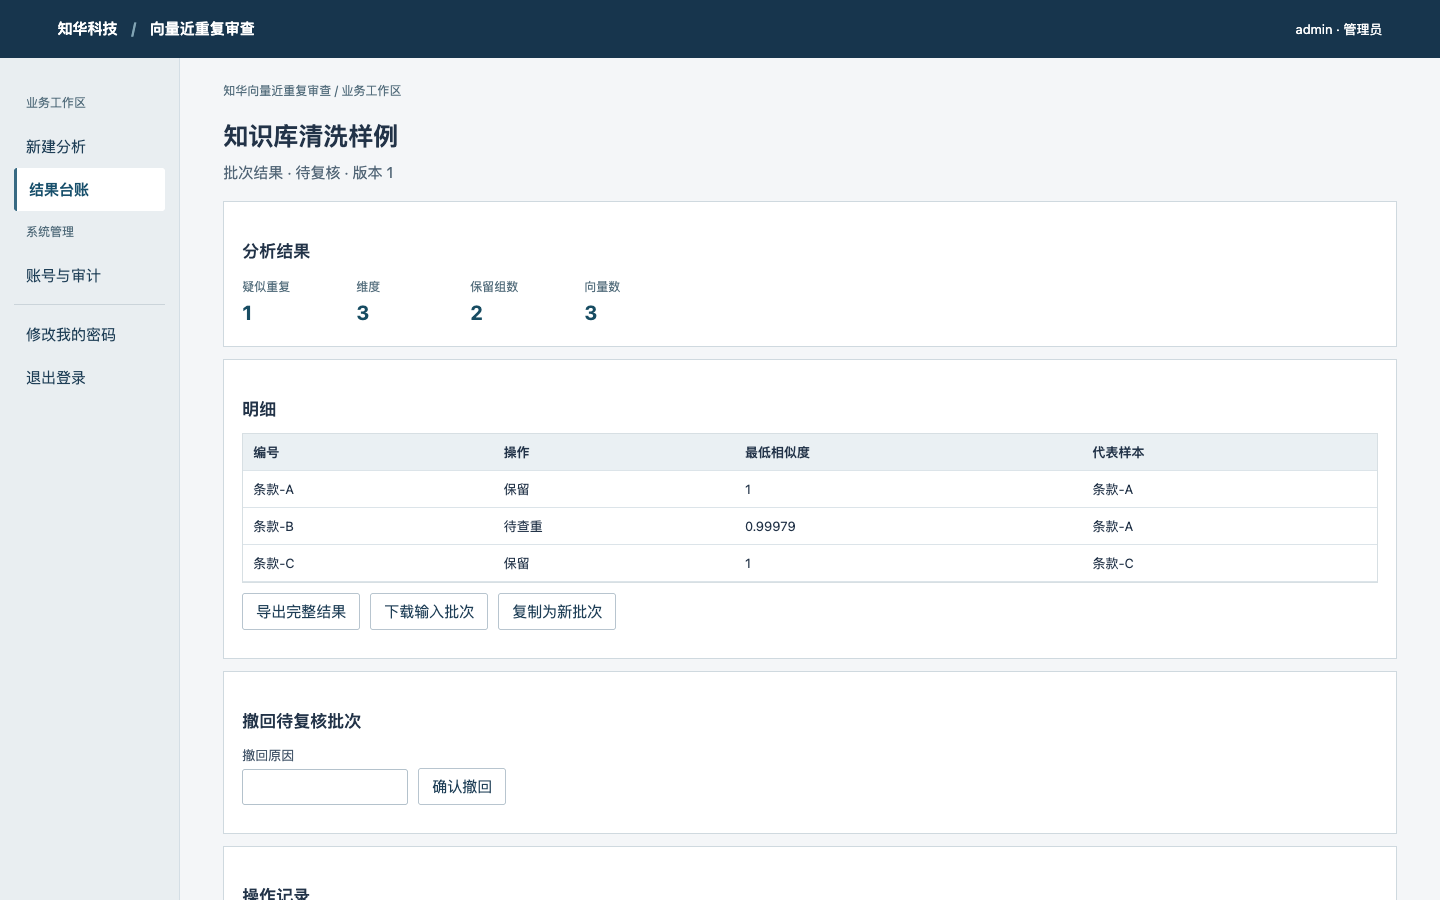
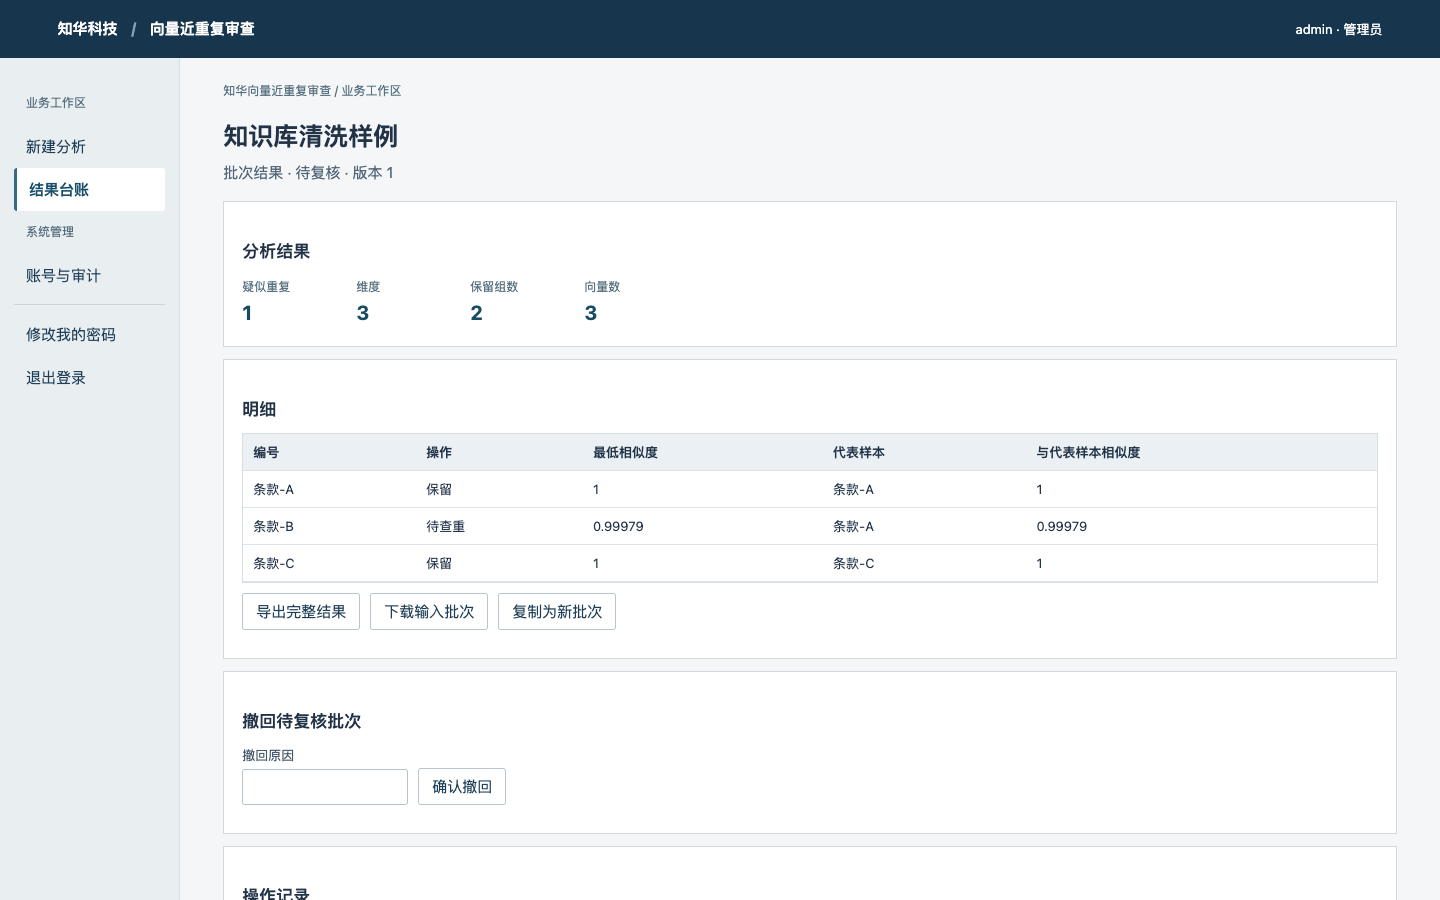
feat: add domain acceptance evidence and local startup diagnostics

diff --git a/frontend/app.js b/frontend/app.js
@@ -56,6 +56,7 @@ const labels = {
   context: "编排正文",
 };
 const resultLabels = {
+  representativeSimilarity: "与代表样本相似度",
   ...labels,
   ...{
     knownTokens: "词表命中数",

diff --git a/scripts/doctor.py b/scripts/doctor.py
@@ -1,0 +1,63 @@
+#!/usr/bin/env python3
+"""上海如静知华信息科技有限公司 · https://www.zhuatech.cn/
+商业授权或定制开发请微信添加微信号zhuatech或zhuatech2进行咨询。
+Optional preflight for a direct local launch; never initializes a database or changes persistent files.
+"""
+import os, re, shutil, socket, subprocess, sys
+from pathlib import Path
+
+ROOT = Path(__file__).resolve().parents[1]
+
+
+def main(args):
+    """Direct local launch preflight. 上海如静知华信息科技有限公司 · https://www.zhuatech.cn/
+    商业授权或定制开发请微信添加微信号zhuatech或zhuatech2进行咨询。
+    """
+    if args not in ([], ["--build"], ["--no-build"]):
+        print("用法：python3 scripts/doctor.py [--build|--no-build]")
+        return 2
+    jar = ROOT / "backend/target/app.jar"
+    build = args == ["--build"] or (not args and ((ROOT/".git").exists() or not jar.is_file()))
+    errors = []
+    home = os.environ.get("JAVA_HOME")
+    suffix = ".exe" if os.name == "nt" else ""
+    java = str(Path(home)/"bin"/("java"+suffix)) if home else shutil.which("java")
+    try:
+        command = subprocess.run([java or "java", "-XshowSettings:properties", "-version"], capture_output=True, text=True, timeout=12)
+        found = re.search(r"java\.specification\.version\s*=\s*(\d+)",command.stderr)
+        if command.returncode or not found or int(found[1]) < 21:
+            errors.append("需要 Java 21 或更新版本，请检查 JAVA_HOME。")
+    except (OSError, subprocess.TimeoutExpired):
+        errors.append("无法运行 Java，请先配置 JAVA_HOME。")
+    if build:
+        javac = str(Path(home)/"bin"/("javac"+suffix)) if home else shutil.which("javac")
+        if not javac or not os.access(javac,os.X_OK):
+            errors.append("源码构建需要完整 JDK，未找到 javac。")
+    elif not jar.is_file():
+        errors.append("没有可运行的 JAR，请先构建或使用免构建包。")
+    settings=(ROOT/"backend/src/main/resources/application.properties").read_text(encoding="utf8")
+    default=re.search(r"server\.port=\$\{PORT:(\d+)\}",settings)[1]
+    try:
+        port=int(os.environ.get("PORT",default))
+        if not 1 <= port <= 65535: raise ValueError()
+        address=os.environ.get("BIND_ADDRESS","127.0.0.1")
+        family,kind,proto,_,endpoint=socket.getaddrinfo(address,port,type=socket.SOCK_STREAM)[0]
+        with socket.socket(family,kind,proto) as probe:
+            probe.bind(endpoint)
+    except ValueError:
+        errors.append("PORT 须为 1 至 65535 的整数。")
+    except OSError:
+        errors.append("无法绑定监听地址：请检查 BIND_ADDRESS，或更换已被占用的 PORT。")
+    var=ROOT/"var"
+    storage=var if var.exists() else ROOT
+    if not storage.is_dir() or not os.access(storage,os.W_OK | os.X_OK):
+        errors.append("数据目录 var 不可创建或不可写，请检查解压目录权限。")
+    print("启动方式："+("源码构建" if build else "直接运行 JAR"))
+    for reason in errors:print("未通过："+reason)
+    if errors:return 1
+    print("本地前置检查通过。未连接数据库或下载依赖；实际运行仍以启动与登录为准。")
+    return 0
+
+
+if __name__=="__main__":
+    sys.exit(main(sys.argv[1:]))

diff --git a/scripts/smoke.py b/scripts/smoke.py
@@ -63,7 +63,13 @@ def smoke():
                 closed=call("/api/runs/"+one["id"]+"/withdraw","POST",{"version":again["revision"],"note":"自检完成，保留记录"},auth())
                 assert closed["stage"]=="WITHDRAWN" and closed["result"]==one["result"]
                 assert call("/api/runs?state=WITHDRAWN&scope=mine",token=auth())["total"]==1
-                print("PASS: packaged startup, static UI, login, execution, idempotency, disk restart and audited withdrawal")
+                fixture=json.loads((ROOT/"examples/acceptance.json").read_text(encoding="utf8"))
+                result=call("/api/runs","POST",fixture,auth(),"domain-acceptance")["result"]
+                expected=json.loads("{\"groups\":2,\"candidates\":0}")
+                assert all(k in result["metrics"] and result["metrics"][k]==v for k,v in expected.items()),result["metrics"]
+                evidence=json.loads("{\"id\":\"b\",\"action\":\"KEEP\",\"representativeSimilarity\":1}")
+                assert any(all(k in row and row[k]==v for k,v in evidence.items()) for row in result["rows"]),result["rows"]
+                print("PASS: packaged startup, login, execution, idempotency, restart, withdrawal and project-specific acceptance")
             except BaseException:
                 log.flush();log.seek(0);print(log.read()[-3500:],file=sys.stderr);raise
             finally:stop(p)

diff --git a/backend/src/main/java/cn/zhuatech/embeddingcurator/Algorithm.java b/backend/src/main/java/cn/zhuatech/embeddingcurator/Algorithm.java
@@ -33,15 +33,20 @@ final class Algorithm {
       must(!v.isEmpty() && v.size() <= 4096 && (dim < 0 || dim == v.size()), "向量维度不一致或超出 1–4096");
       dim = v.size();
       double[] a = new double[dim];
-      double norm = 0;
+      double scale = 0;
       for (int j = 0; j < dim; j++) {
         Object x = v.get(j);
         must(x instanceof Number, "向量包含非数字");
         a[j] = ((Number) x).doubleValue();
         must(Double.isFinite(a[j]) && Math.abs(a[j]) <= 1e12, "向量分量非有限或过大");
+        scale = Math.max(scale, Math.abs(a[j]));
+      }
+      must(scale > 0, "零向量无法比较");
+      double norm = 0;
+      for (int j = 0; j < dim; j++) {
+        a[j] /= scale;
         norm = Math.hypot(norm, a[j]);
       }
-      must(norm > 0, "零向量无法比较");
       for (int j = 0; j < dim; j++) a[j] /= norm;
       vec.add(a);
     }
@@ -72,7 +77,7 @@ final class Algorithm {
               "action",
               keep ? "KEEP" : "REVIEW_DUPLICATE",
               "minSimilarity",
-              best));
+              best, "representativeSimilarity", keep ? 1.0 : dot(vec.get(i), vec.get(chosen.getFirst()))));
     }
     return result(
         Map.of(

diff --git a/backend/src/test/java/cn/zhuatech/embeddingcurator/AlgorithmTest.java b/backend/src/test/java/cn/zhuatech/embeddingcurator/AlgorithmTest.java
@@ -39,6 +39,20 @@ class AlgorithmTest {
 
   /** 上海如静知华信息科技有限公司 · https://www.zhuatech.cn/ · 商业授权或定制开发请微信添加微信号zhuatech或zhuatech2进行咨询。 */
   @Test
+  void enterpriseEvidenceAndBoundaries() {
+    var result=Algorithm.compute(Map.of("threshold",0.9),List.of(
+        Map.of("id","a","vector",List.of(Double.MIN_VALUE,Double.MIN_VALUE)),
+        Map.of("id","b","vector",List.of(1.0,0.0))));
+    var m=(Map<?,?>)result.get("metrics");assertEquals(2,m.get("groups"));
+    var x=Algorithm.compute(Map.of("threshold",0.7),List.of(
+        Map.of("id","a","vector",List.of(Double.MIN_VALUE,Double.MIN_VALUE)),
+        Map.of("id","b","vector",List.of(1.0,0.0))));
+    var row=((List<Map<String,Object>>)x.get("rows")).get(1);
+    assertEquals(1/Math.sqrt(2),((Number)row.get("representativeSimilarity")).doubleValue(),1e-12);
+  }
+
+  /** 上海如静知华信息科技有限公司 · https://www.zhuatech.cn/ · 商业授权或定制开发请微信添加微信号zhuatech或zhuatech2进行咨询。 */
+  @Test
   void knownResults() {
     var result = Algorithm.compute(cfg, data);
     var m = (Map<String, Object>) result.get("metrics");

diff --git a/README.md b/README.md
@@ -10,7 +10,15 @@
 
 不代算 embedding，不自动删除原文；所有向量须来自同一模型和版本。 工作台带可替换的样例输入。生成的结果可保存、导出、由另一账号复核，不会自动操作外部系统。
 
+## 1.3 · 极小向量相似度校验
+
+先按最大绝对分量缩放再归一化，避免极小非零向量被误判为重复；同时给出代表样本相似度和入组时的最低相似度。 已保存批次保持原快照，新口径用于新建或复制后重新运行的批次。
+
+[可直接导入的 1.3 专项验收样本](examples/acceptance.json) · 用免构建包执行 `python3 scripts/smoke.py` 可在临时库自动核对期望结果，不操作现有业务库。
+
 ## 本地启动
+
+可选：先执行 `python3 scripts/doctor.py` 检查 Java、端口和本地数据目录，检查不会初始化数据库。直接启动不要求安装 Python。
 
 **1.2 更新：** 导入 JSON 时会指出错误行和字段，不会悄悄忽略多余的列。误提交的批次，在其他人复核前可由提交人填写原因并撤回；原结果与操作记录会保留，需要修正时可复制为新批次。MySQL 下同时重试同一笔提交会返回同一个批次。
 

diff --git a/README.en.md b/README.en.md
@@ -4,7 +4,13 @@
 
 Cluster supplied embeddings by cosine similarity using a conservative pairwise threshold within each group. Export representative IDs and review candidates without deleting source material. Use embeddings from the same model and revision.
 
+## 1.3: business acceptance
+
+Scale before normalization to prevent subnormal rounding errors; expose representative cosine alongside the admission minimum. Previously saved results remain unchanged. Re-run a copy to apply the new calculation.
+
 ## Run locally
+
+Optional: run `python3 scripts/doctor.py` to check Java, the local bind address/port, and data directory permissions before launching. Python is not required to run the workbench.
 
 **1.2 update:** JSON imports identify the offending row or field instead of silently dropping unknown columns. Authors may withdraw a pending batch with a reason, retain its input and result, and copy it for correction. Concurrent retries with the same submission key and payload resolve to a single record on MySQL.
 

diff --git a/docs/TESTING.md b/docs/TESTING.md
@@ -5,6 +5,10 @@
 
 零向量和越界阈值拒绝；夹角形成 A–B–C 相似链时不误将两个端点合并。
 
+## 1.3 专项回归
+
+极小向量相似度校验：先按最大绝对分量缩放再归一化，避免极小非零向量被误判为重复；同时给出代表样本相似度和入组时的最低相似度。 运行 AlgorithmTest.enterpriseEvidenceAndBoundaries 复核边界；全套共 14 条 Java 测试，另有 3 条前端导入测试。
+
 ## 1.2 新增回归
 
 在以下 1.1 的基线之上，新增两条 HTTP 测试：只允许作者按正确版本撤回、非法撤回不改变数据；撤回与复核并发时只有一笔成功。共 13 条 Java 测试。维护者可另用 Node 18+ 运行 `node --test scripts/import.test.mjs`，验证本项目导入样本、错误行、类型和未知字段。正式发布另从干净目录启动，MySQL 实测六个并发重试只生成一个结果。
